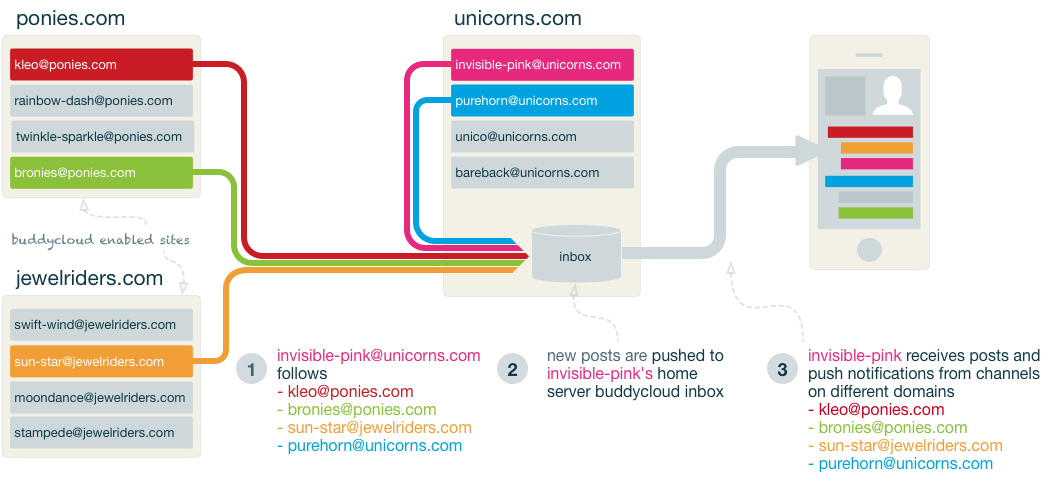
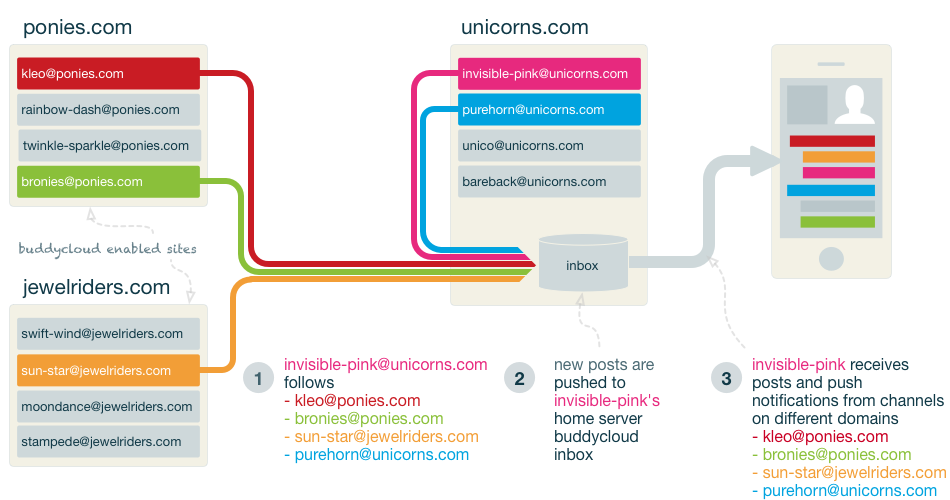
Image size changes
Image is now 950x500

diff --git a/next/index.html b/next/index.html
@@ -91,7 +91,7 @@
         <p>buddycloud has designed a new way to share: each buddycloud instance can connect and share information with other buddycloud websites. Or you can run it behind your firewall for just your team alone.</p>
         <p>Our tools also designed to link users with legacy networks like Facebook and Twiiter.</p>
         <p>When you start your own buddycloud site, your small instance joins a much larger ecosystem of other sites already running buddycloud and users will never have to register again and again.</p>
-        <img src="img/how-buddycloud-works.png" alt="How buddycloud works" width="960" height="506" />
+        <img src="img/how-buddycloud-works.png" alt="How buddycloud works" width="950" height="500" />
       </div>
 
       <div class="main feature privacy image-right">
